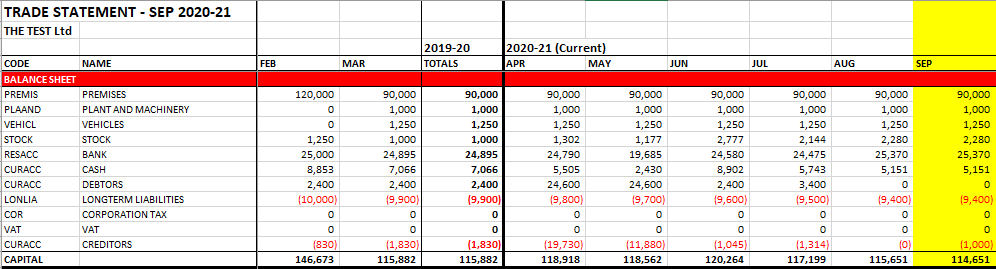
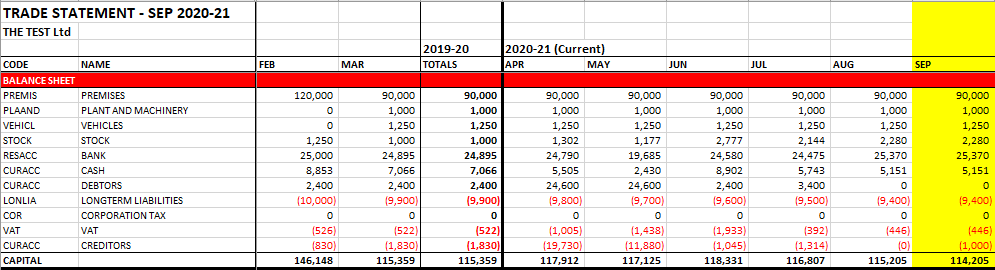
3.16.1 docs

diff --git a/docs/tc_demo_balance_sheets.md b/docs/tc_demo_balance_sheets.md
@@ -22,7 +22,7 @@ Open the [Cash Flow XLS](tc_client_installation.md#cash-flow) and switch off acc
 
 ![Action Pane](../img/balance_sheet_action_pane.png)
 
-Set the database connection to the test company and run the cash flow routine. You will get a Trade Statement that will be similar to the Before page in the following [sample spreadsheet](tc_demo_balance_sheet.xlsx):  
+Set the database connection to the test company and run the cash flow routine. You will get a Trade Statement that will be similar to the Basic page in the following [sample spreadsheet](tc_demo_balance_sheet.xlsx):  
 
 ![Basic Balance Sheet](../img/balance_sheet_basic.png)
 
@@ -219,15 +219,17 @@ Corporation Tax and VAT are dynamically calculated and presented in two respecti
 
 VAT is audited separately from the balance sheet because it is paid quarterly. The [VAT Audit Report](Cash_VatAuditAccruals.pdf) lists both forward and historical transactions. To avoid VAT accruals, companies normally ensure that a quarter always falls due at the end of their financial year.
 
-From the Invoice Register, the VAT Totals page communicates how much is due in each quarter.  These values will be projected on the balance sheet. If you pay the first two quarters using Payment Entry (specifying the VAT cash code for the HMREV account), the amount of cash will be reduced by the reduction in liability, thereby maintaining balance:
- 
+From the Invoice Register, the VAT Totals page communicates how much is due in each month and quarter. Although VAT is paid quarterly, the monthly values and payments are projected onto the balance sheet. The reason is that the balance sheet records on-going liabilities, not when payments are due. 
+
+For the demo, when paying the first two quarters using Payment Entry (specifying the VAT cash code for the HMREV account), the amount of cash will be reduced by the reduction in liability, thereby maintaining balance.
+
 ![Vat Statement](../img/balance_sheet_vat_statement.png)
 
 ### Corporation Tax
 
 The [Corporation Tax Audit](Cash_CorpTaxAuditAccruals.pdf) is merely generated to confirm that the tax has been correctly configured (in Cash Totals) and that all relevant cash codes have been included. Rates are specified in the tax page of the Administrator.
 
-There is no corporation tax to pay by this demonstration start-up company, and therefore balance sheet tax section is zero.
+There is no corporation tax to pay by this demonstration start-up company, and therefore balance sheet tax section is zero. The Corporation Tax Statement in the Invoice Register shows amounts due adjusted by the offset days (275 in the UK). The corporation tax on the balance sheet is entered at the end of the financial year, because it is a company liability from that point on, whether or not it needs to paid.
 
 ## Audit
 
@@ -243,7 +245,7 @@ As long as these check out, all historical balance sheets will check out too. Th
 
 ## Trade Statement
 
-When completed, the full Trade Statement should look like the After page in the [sample spreadsheet](tc_demo_balance_sheet.xlsx). The values in the year end columns are all you need to satisfy the accounting obligations set by the government.
+When completed, the full Trade Statement should look like the Advanced page in the [sample spreadsheet](tc_demo_balance_sheet.xlsx). The values in the year end columns are all you need to satisfy the accounting obligations set by the government.
 
 ![Balance Sheet](../img/balance_sheet_full.png)
 
